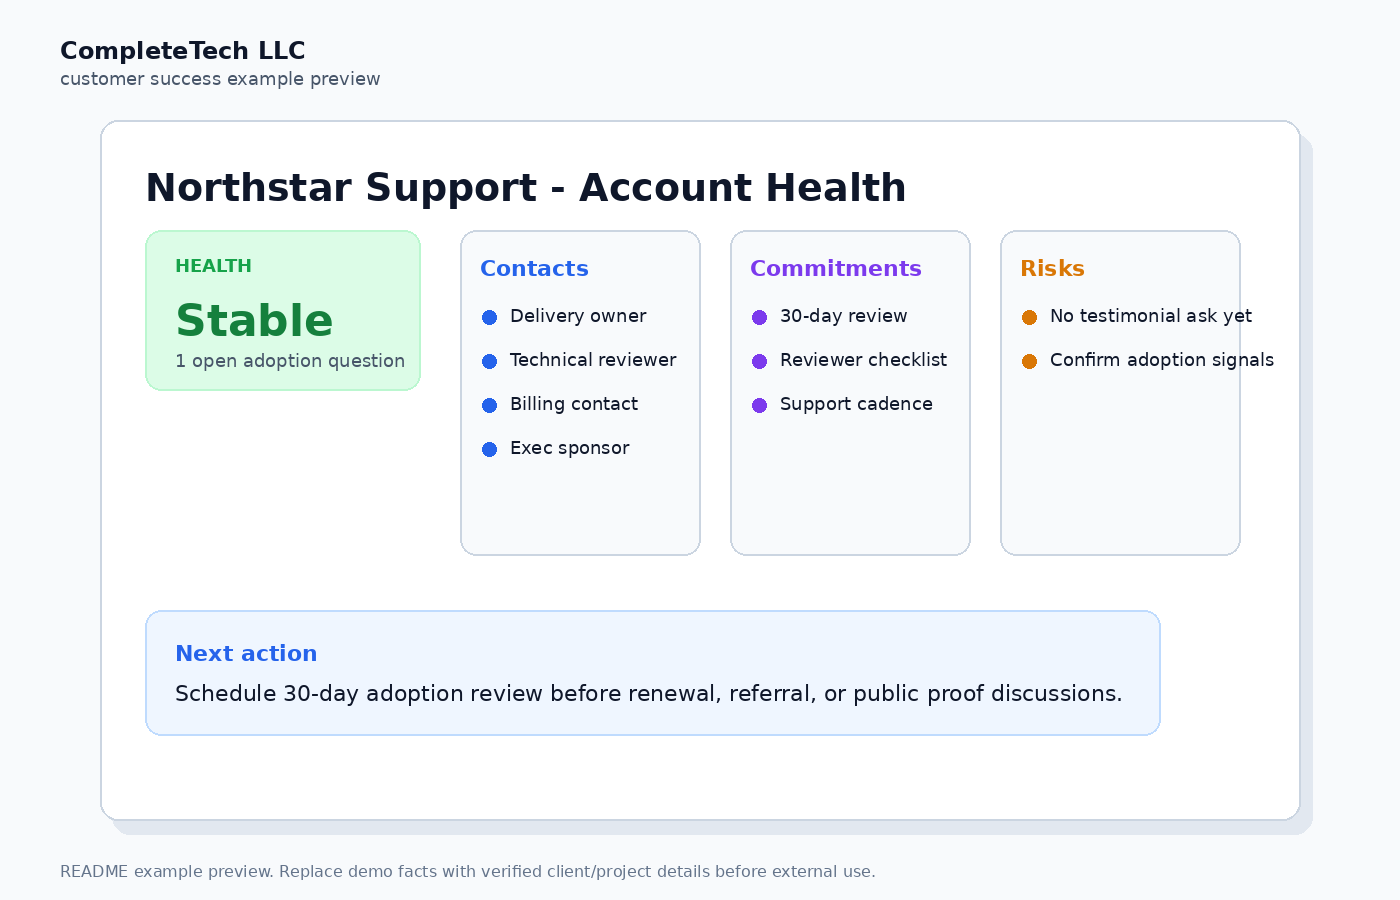
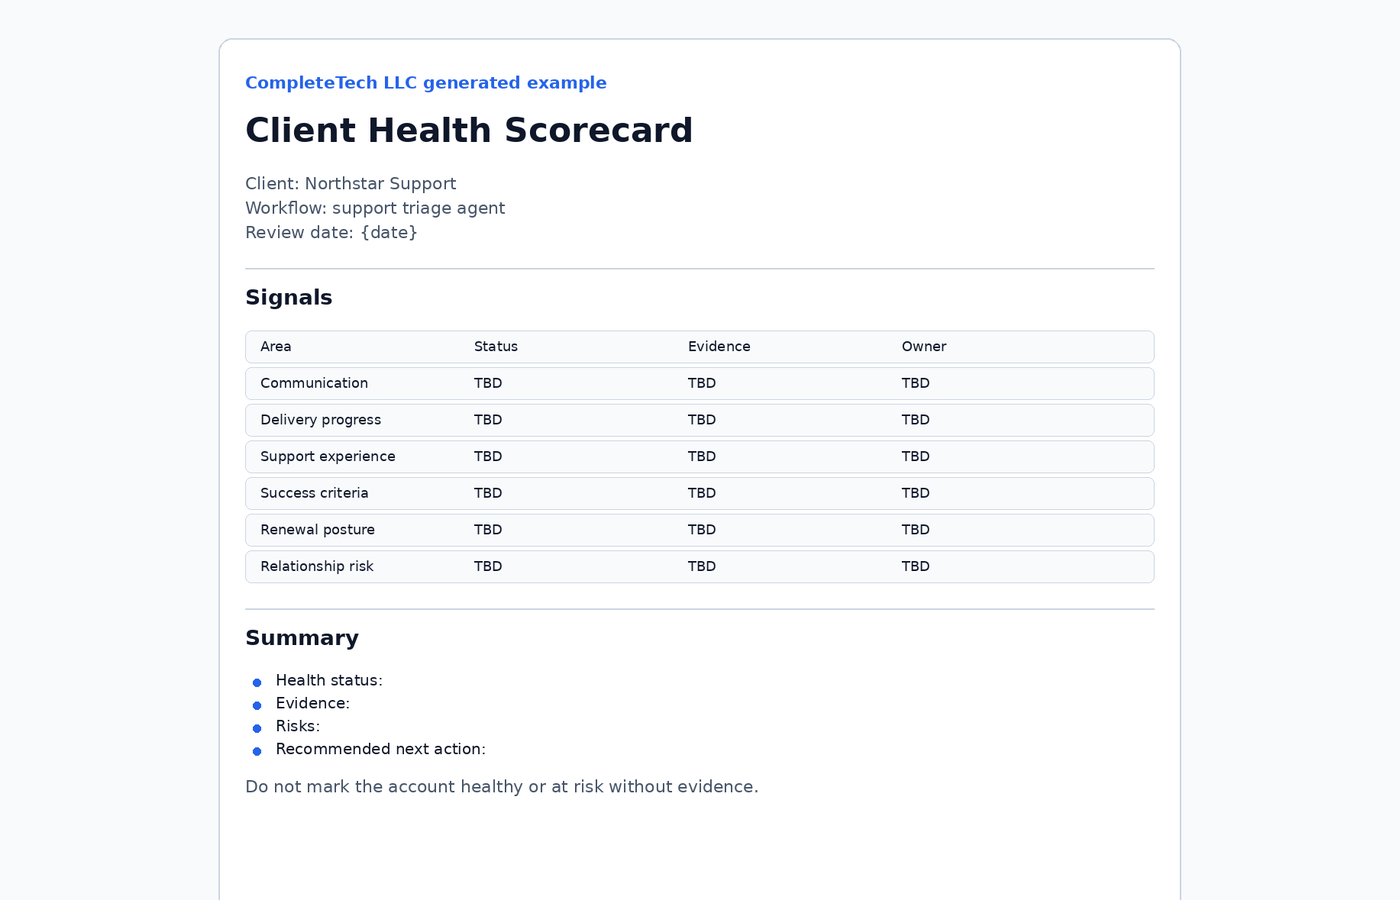
Use generated artifact previews in README

diff --git a/assets/examples/example.md b/assets/examples/example.md
@@ -1,0 +1,25 @@
+# Client Health Scorecard
+
+Client: Northstar Support
+Workflow: support triage agent
+Review date: {date}
+
+## Signals
+
+| Area | Status | Evidence | Owner |
+| --- | --- | --- | --- |
+| Communication | TBD | TBD | TBD |
+| Delivery progress | TBD | TBD | TBD |
+| Support experience | TBD | TBD | TBD |
+| Success criteria | TBD | TBD | TBD |
+| Renewal posture | TBD | TBD | TBD |
+| Relationship risk | TBD | TBD | TBD |
+
+## Summary
+
+- Health status:
+- Evidence:
+- Risks:
+- Recommended next action:
+
+Do not mark the account healthy or at risk without evidence.

diff --git a/README.md b/README.md
@@ -74,6 +74,8 @@ Rendered artifacts are drafts. Replace placeholders with verified account, conta
 
 ![Customer success health snapshot preview](assets/examples/example.png)
 
+Preview converted from generated artifact: [example.md](assets/examples/example.md).
+
 **Account health snapshot: Post-launch support handoff**
 
 ```bash
@@ -83,7 +85,8 @@ python3 scripts/render_customer_success.py \
   --var workflow="support triage agent" \
   --var account_stage="post-launch support" \
   --var success_criteria="reviewer confidence, stable escalation routing, weekly queue visibility" \
-  --var next_action="schedule 30-day adoption review"
+  --var next_action="schedule 30-day adoption review" \
+  > assets/examples/example.md
 ```
 
 Example output focus: